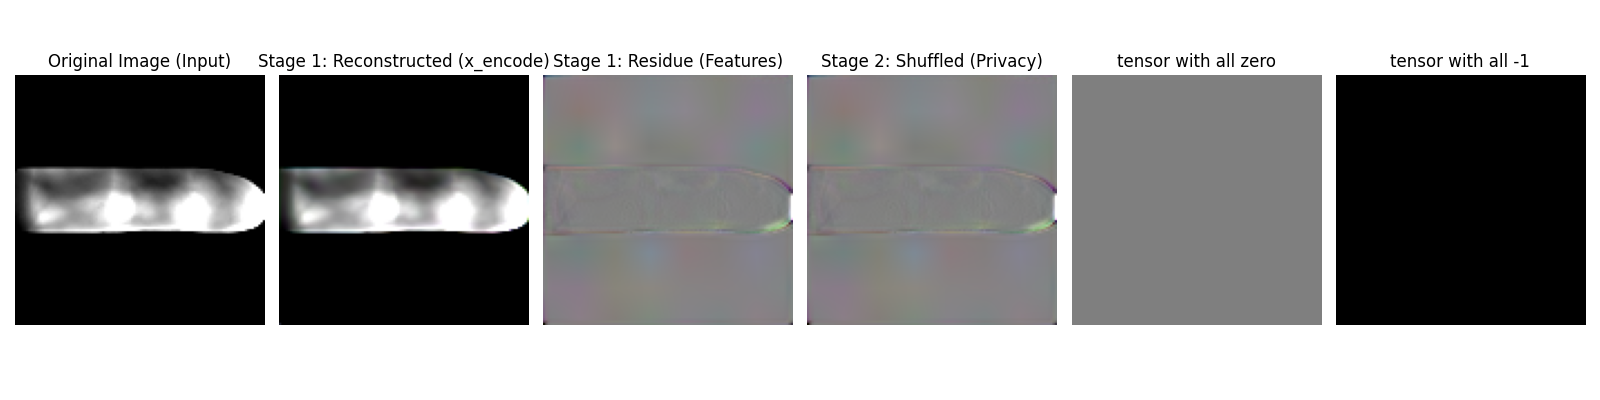
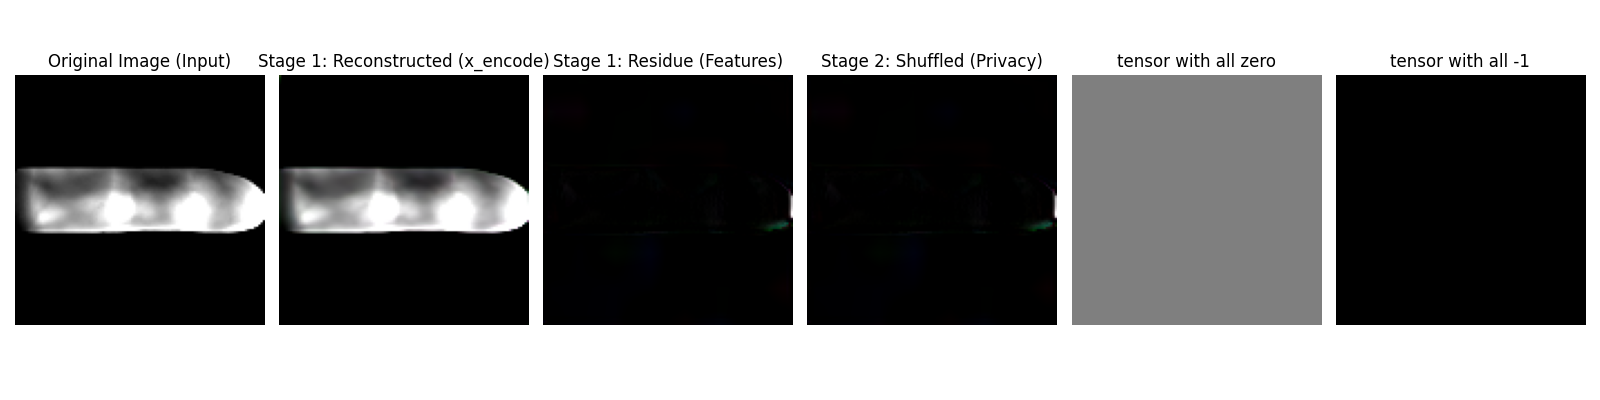
good photo

Changed region(s): [[0.3125, 0.18, 0.6875, 0.81]]

diff --git a/experiment/train.py b/experiment/train.py
@@ -20,12 +20,12 @@ def tensor_to_np(tensor, is_residue=False):
     img = np.transpose(img, (1, 2, 0))
 
     if is_residue:
-        # 對於殘差，因為範圍是 [-1, 1]，我們用固定的反正規化，而不是 min-max stretch
-        # 這樣才能真實反映出它跟原圖相比有多 "暗"
-        img = img / 2.0
+        gain = 5.0
+        img = img * gain
+        img = np.abs((img / 2.0) - 1.0)
         img = np.clip(img, 0, 1)
     else:
-        img = (img + 1.0) / 2.0
+        img = ((img - 1.0) / 2.0)* -1
         img = np.clip(img, 0, 1)
 
     return img
